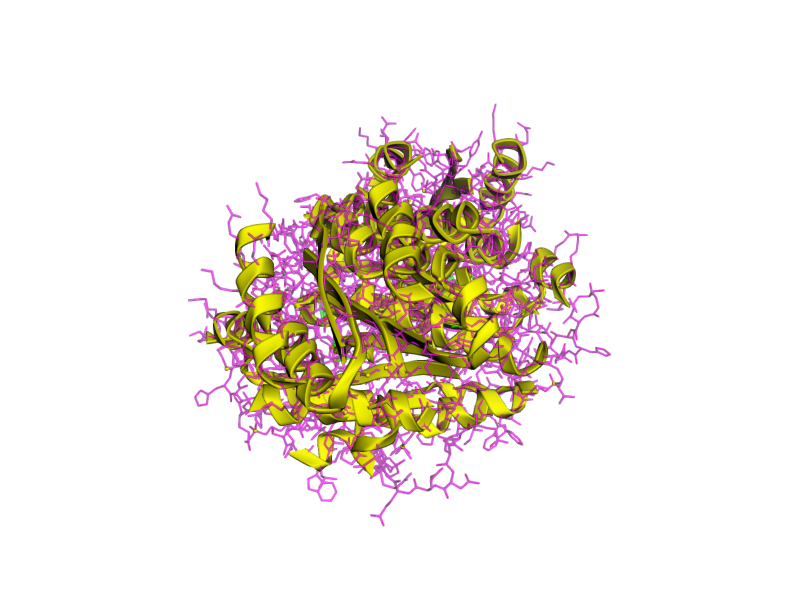
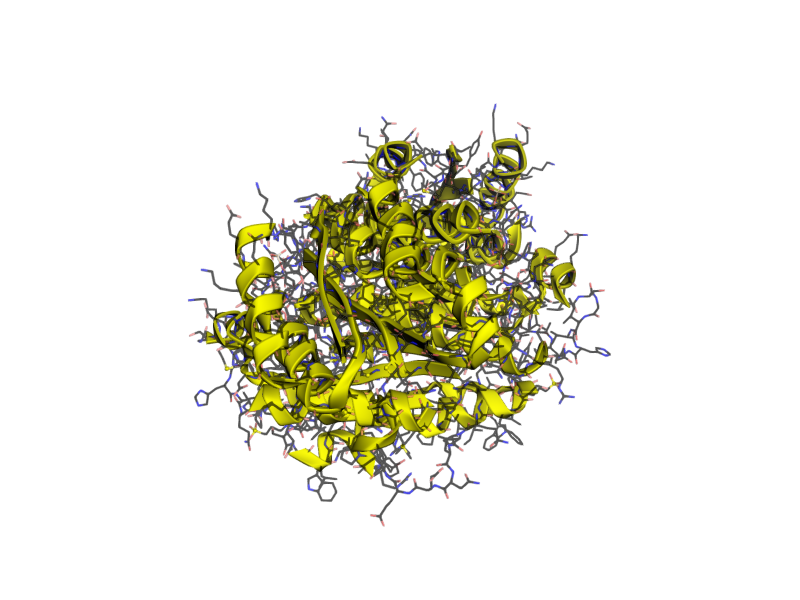
Update protein renderer with atom-specific sidechain colors and dimer-only view
- Implemented chain filtering in `src/render_protein.py` to isolate dimers (deleting the 'lower half' of tetrameric structures).
- Updated helical sidechain styling to use atom-specific colors: Carbon (black), Hydrogen (grey), Oxygen (light red), and Sulfur (yellow).
- Added support for PDB 3OQ1 as a second 11β-HSD1 variant.
- Maintained previously requested styles: yellow backbone (cartoon/arrows), light blue coils, yellow sulfur spheres, and bright green active site residues.
- Regenerated all enzyme assets in `output/images/`.

Changed region(s): [[0.25, 0.18, 0.7812, 0.87], [0.6562, 0.21, 0.6875, 0.24]]

diff --git a/src/render_protein.py b/src/render_protein.py
@@ -62,9 +62,13 @@ async def render_enzyme(pdb_id, output_path, excluded_chains, style_chains):
             viewer.addStyle({{chain: {style_chains}, atom: ['N', 'CA', 'C', 'O'], invert: true, hetatm: false}},
                             {{ stick: {{ radius: 0.05, color: '#eeeeee', opacity: 0.2 }} }});
 
-            // "Magenta inside helices": Thicker magenta sticks for sidechains of helical residues
+            // Atom-colored sticks for sidechains of helical residues (C: black, H: grey, O: lightred, S: yellow)
             viewer.addStyle({{chain: {style_chains}, ss: 'h', atom: ['N', 'CA', 'C', 'O'], invert: true, hetatm: false}},
-                            {{ stick: {{ color: 'magenta', radius: 0.15, opacity: 0.8 }} }});
+                            {{ stick: {{
+                                colorscheme: {{ prop: 'elem', map: {{ C: 'black', H: 'grey', O: '#FF8080', S: 'yellow', N: 'blue' }} }},
+                                radius: 0.15,
+                                opacity: 0.8
+                            }} }});
 
             // 3. Sulfur atoms as small yellow balls
             viewer.addStyle({{ elem: 'S' }}, {{ sphere: {{ color: 'yellow', radius: 0.3 }} }});